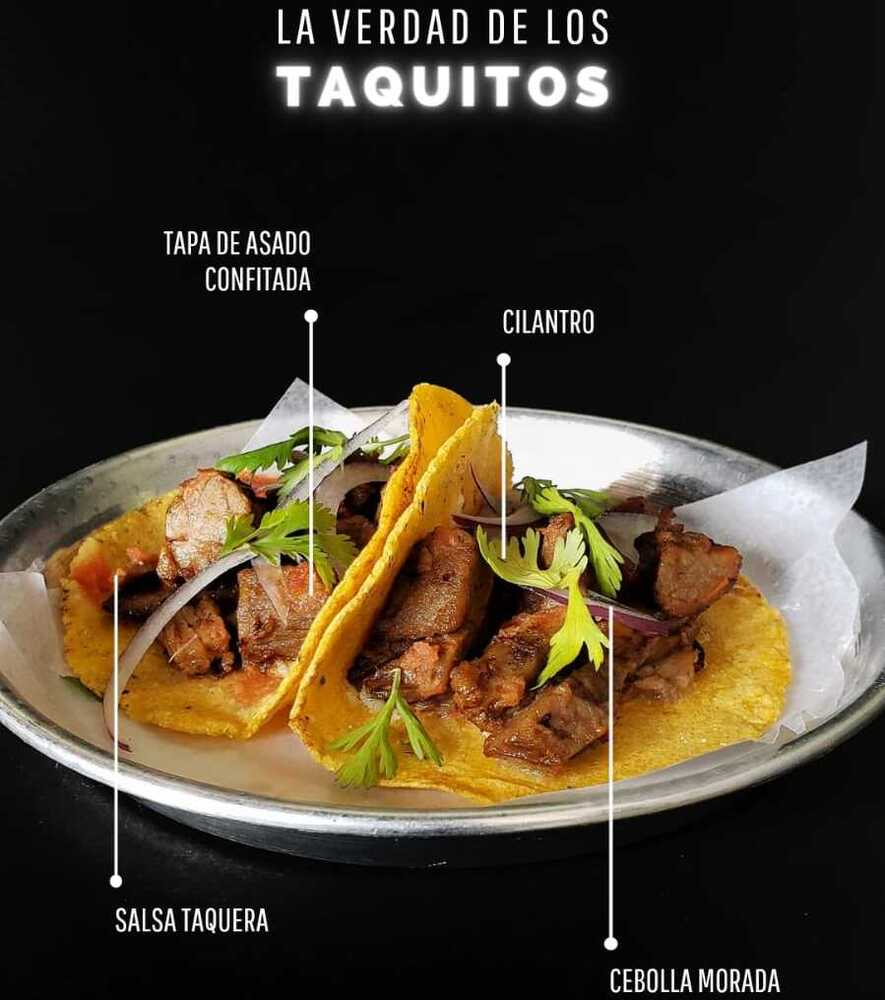
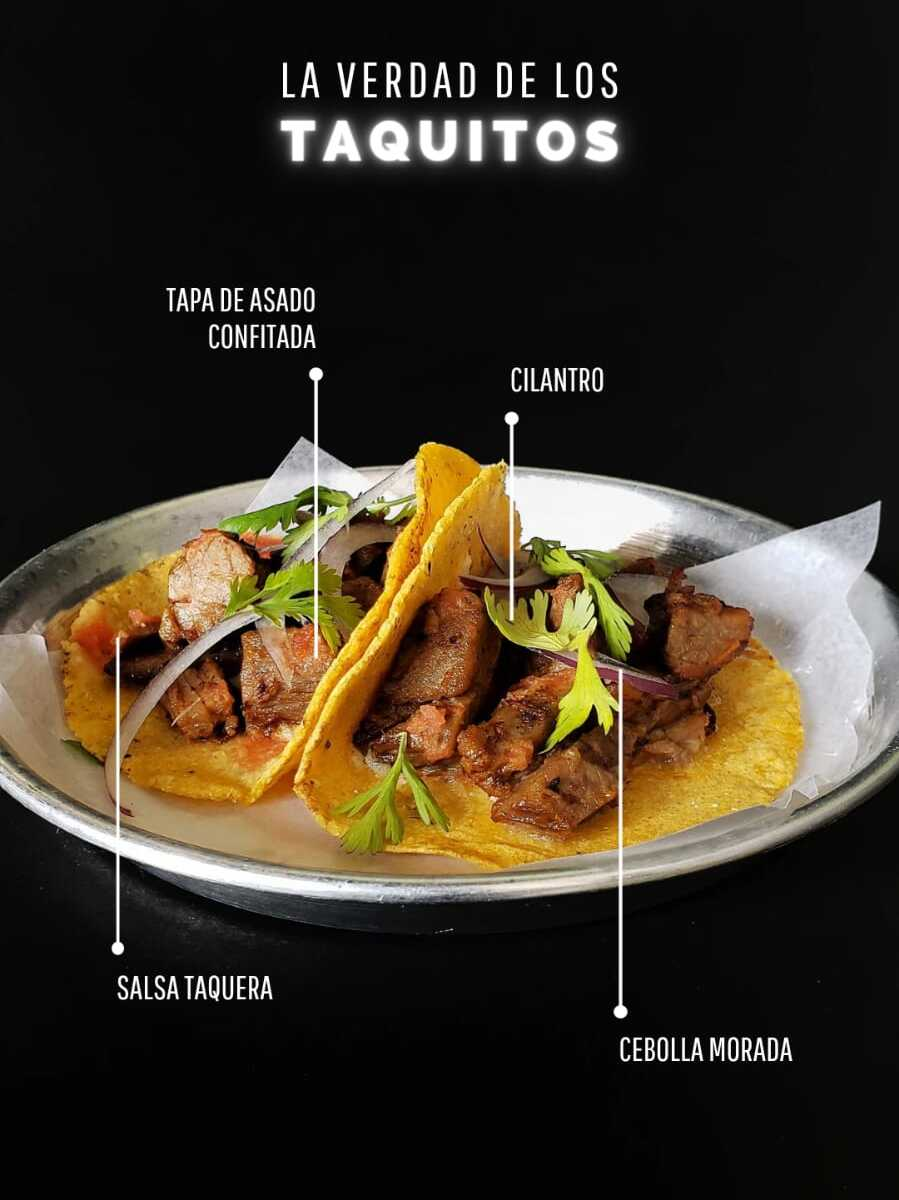
Ajustando imagenes

diff --git a/pages/menu.html b/pages/menu.html
@@ -73,19 +73,6 @@
         <div class="row row-cols-1 row-cols-md-3 g-4">
             <div class="col">
                 <div class="card h-100">
-                    <img src="../images/menu/wraps.jpeg" class="card-img-top" alt="imagen titulo wraps">
-                    <div class="card-body">
-                        <h5 class="card-title">POLLO</h5>
-                        <p class="card-text">Pollo frito, lechuga repollada, frijoles refritos, rabanitos encurtidos y
-                            cebolla morada.</p>
-                        <h5 class="card-title">VEGGIE</h5>
-                        <p class="card-text">Berenjenas chinas, rabanitos encurtidos, lechuga repollada, frijoles
-                            refritos y cebolla morada.</p>
-                    </div>
-                </div>
-            </div>
-            <div class="col">
-                <div class="card h-100">
                     <img src="../images/menu/picoteo.jpeg" class="card-img-top" alt="imagen titulo picoteo">
                     <div class="card-body">
                         <h5 class="card-title">BAOZI DE CERDO</h5>
@@ -96,6 +83,19 @@
                         <p class="card-text">6 unidades.</p>
                         <h5 class="card-title">DEGUSTACIÓN DE PICOTEO</h5>
                         <p class="card-text">1 baozi, 1 tequeño, 1 croqueta.</p>
+                    </div>
+                </div>
+            </div>
+            <div class="col">
+                <div class="card h-100">
+                    <img src="../images/menu/wraps.jpeg" class="card-img-top" alt="imagen titulo wraps">
+                    <div class="card-body">
+                        <h5 class="card-title">POLLO</h5>
+                        <p class="card-text">Pollo frito, lechuga repollada, frijoles refritos, rabanitos encurtidos y
+                            cebolla morada.</p>
+                        <h5 class="card-title">VEGGIE</h5>
+                        <p class="card-text">Berenjenas chinas, rabanitos encurtidos, lechuga repollada, frijoles
+                            refritos y cebolla morada.</p>
                     </div>
                 </div>
             </div>
@@ -118,19 +118,6 @@
             </div>
             <div class="col">
                 <div class="card h-100">
-                    <img src="../images/menu/taquitos.jpeg" class="card-img-top" alt="imagen titulo taquitos">
-                    <div class="card-body">
-                        <h5 class="card-title">SUADERO | 3 unidades</h5>
-                        <p class="card-text">Tapa de asado confitada, cebolla morada, cilantro, tortilla de maíz y salsa
-                            taquera.</p>
-                        <h5 class="card-title">MULITA</h5>
-                        <p class="card-text">Tapa de asado confitada, guacamole, doble tortilla de maíz, cebolla,
-                            cilantro, lechuga repollada y queso gratinado.</p>
-                    </div>
-                </div>
-            </div>
-            <div class="col">
-                <div class="card h-100">
                     <img src="../images/menu/ensaladas.jpeg" class="card-img-top" alt="imagen titulo ensaladas">
                     <div class="card-body">
                         <h5 class="card-title">VEGGIE</h5>
@@ -139,6 +126,19 @@
                         <h5 class="card-title">POLLO</h5>
                         <p class="card-text">Pollo frito, humus, rabanitos encurtidos, lechuga repollada, arroz,
                             verdeo y maní.</p>
+                    </div>
+                </div>
+            </div>
+            <div class="col">
+                <div class="card h-100">
+                    <img src="../images/menu/taquitos.jpeg" class="card-img-top" alt="imagen titulo taquitos">
+                    <div class="card-body">
+                        <h5 class="card-title">SUADERO | 3 unidades</h5>
+                        <p class="card-text">Tapa de asado confitada, cebolla morada, cilantro, tortilla de maíz y salsa
+                            taquera.</p>
+                        <h5 class="card-title">MULITA</h5>
+                        <p class="card-text">Tapa de asado confitada, guacamole, doble tortilla de maíz, cebolla,
+                            cilantro, lechuga repollada y queso gratinado.</p>
                     </div>
                 </div>
             </div>
@@ -201,6 +201,7 @@
     </footer>
     <!--fin pie de página-->
     <!--scripts-->
+    <script src="../js/script.js"></script>
     <script src="https://cdn.jsdelivr.net/npm/@popperjs/core@2.11.6/dist/umd/popper.min.js"
         integrity="sha384-oBqDVmMz9ATKxIep9tiCxS/Z9fNfEXiDAYTujMAeBAsjFuCZSmKbSSUnQlmh/jp3"
         crossorigin="anonymous"></script>

diff --git a/pages/contacto.html b/pages/contacto.html
@@ -169,6 +169,7 @@
     </footer>
     <!--fin pie de página-->
     <!--scripts-->
+    <script src="../js/script.js"></script>
     <script src="https://cdn.jsdelivr.net/npm/@popperjs/core@2.11.6/dist/umd/popper.min.js"
         integrity="sha384-oBqDVmMz9ATKxIep9tiCxS/Z9fNfEXiDAYTujMAeBAsjFuCZSmKbSSUnQlmh/jp3"
         crossorigin="anonymous"></script>

diff --git a/pages/nosotros.html b/pages/nosotros.html
@@ -143,6 +143,7 @@
     </footer>
     <!--fin pie de página-->
     <!--scripts-->
+    <script src="../js/script.js"></script>
     <script src="https://cdn.jsdelivr.net/npm/@popperjs/core@2.11.6/dist/umd/popper.min.js"
         integrity="sha384-oBqDVmMz9ATKxIep9tiCxS/Z9fNfEXiDAYTujMAeBAsjFuCZSmKbSSUnQlmh/jp3"
         crossorigin="anonymous"></script>

diff --git a/pages/vauchers.html b/pages/vauchers.html
@@ -145,6 +145,7 @@
     </footer>
     <!--fin pie de página-->
     <!--scripts-->
+    <script src="../js/script.js"></script>
     <script src="https://cdn.jsdelivr.net/npm/@popperjs/core@2.11.6/dist/umd/popper.min.js"
         integrity="sha384-oBqDVmMz9ATKxIep9tiCxS/Z9fNfEXiDAYTujMAeBAsjFuCZSmKbSSUnQlmh/jp3"
         crossorigin="anonymous"></script>
